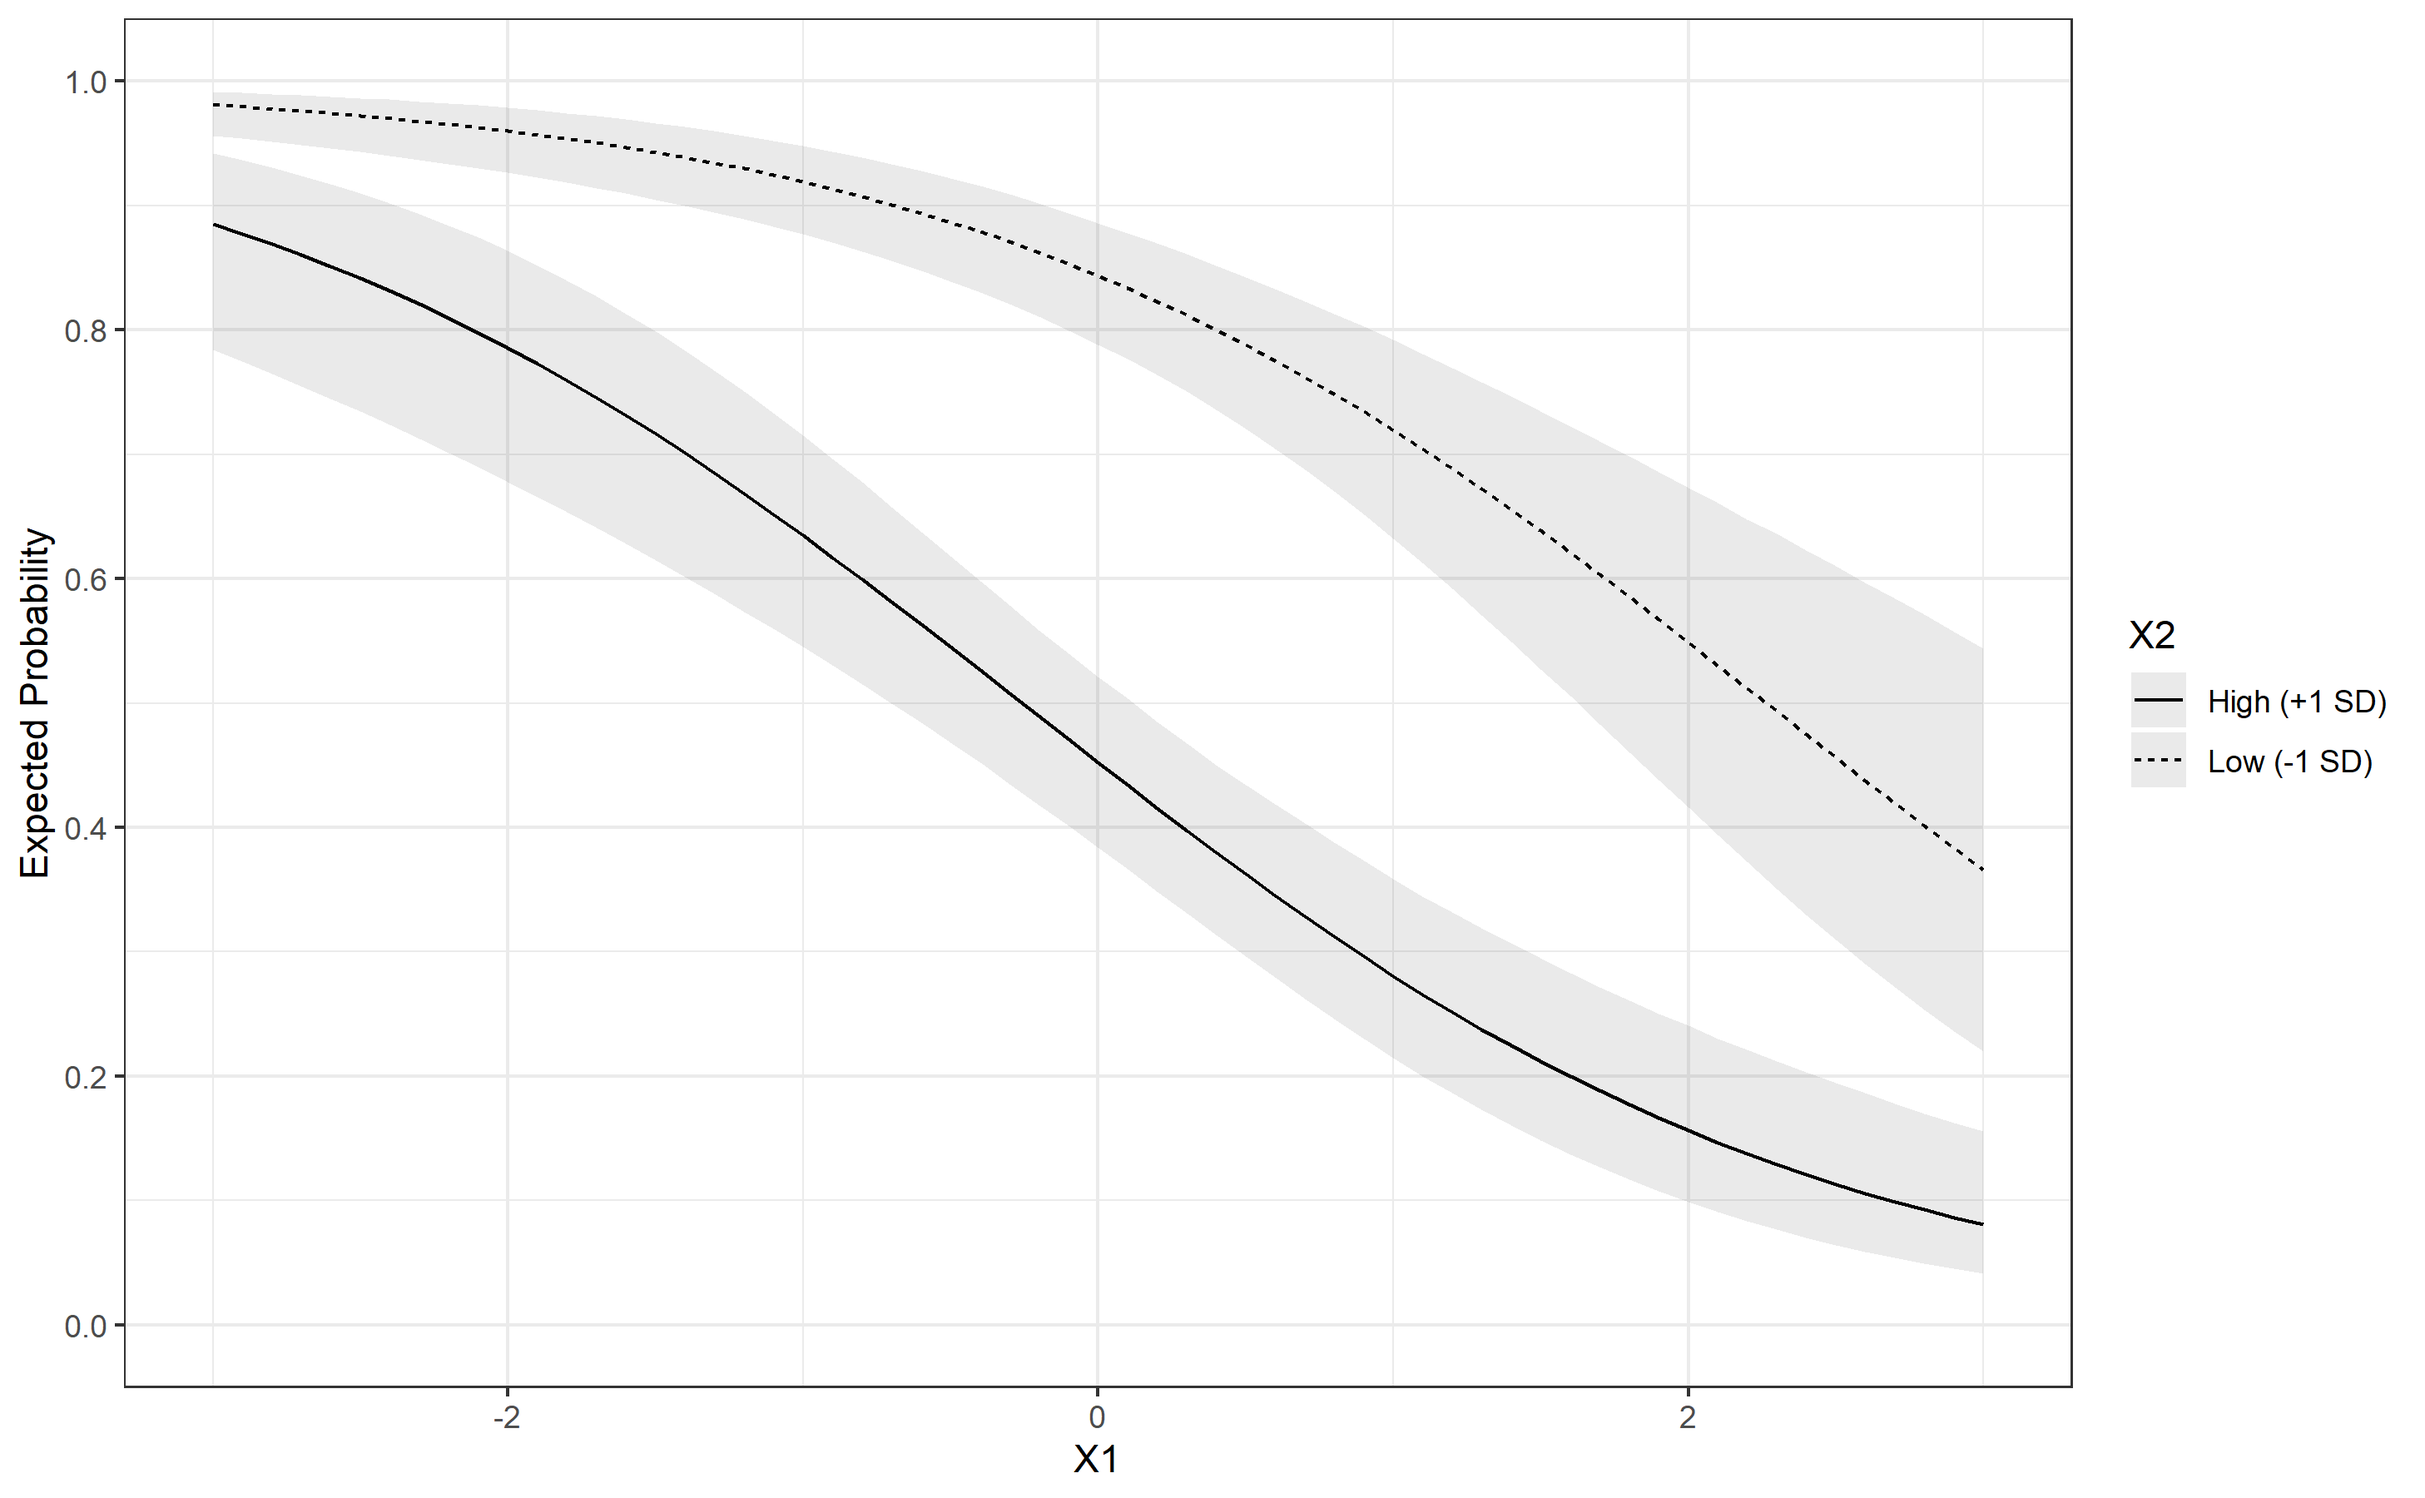
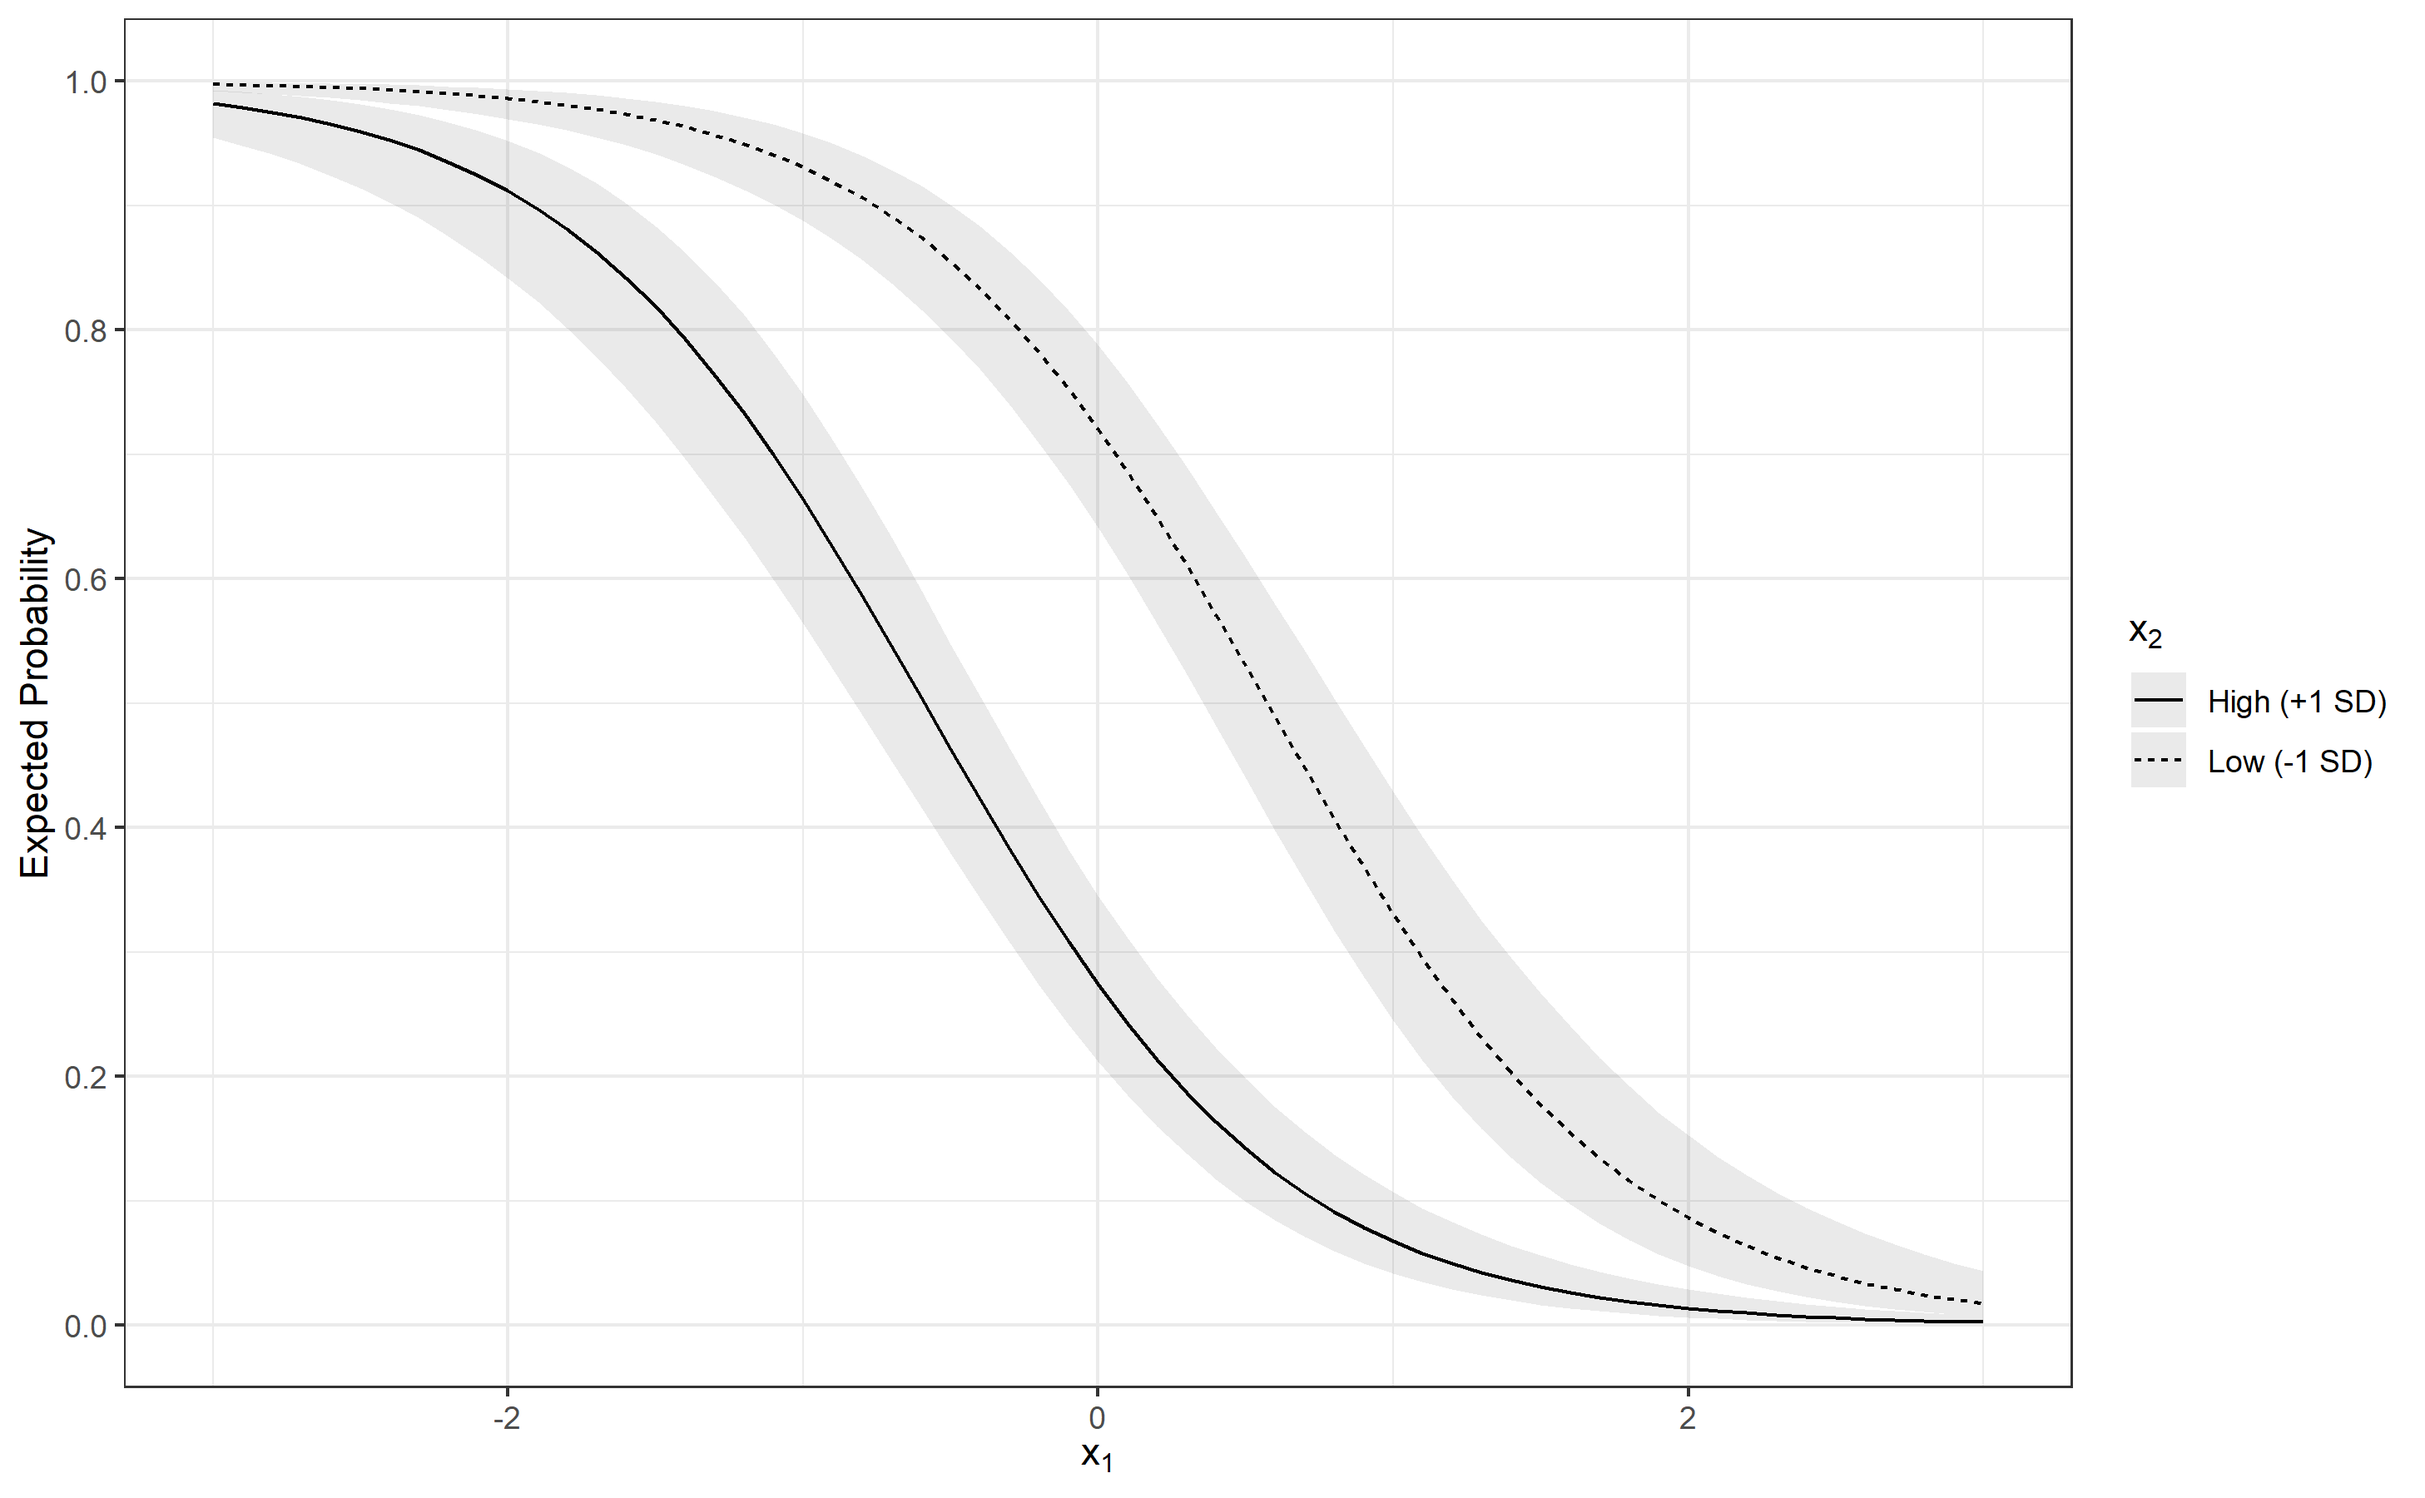
Update all files based on revision

diff --git a/README.md b/README.md
@@ -1,11 +1,11 @@
-# glm_main_effects
-
-This repository houses data, analysis code, and figures to accompany a forthcoming manuscript on interpreting main effects in GLM models of binary and count outcomes. 
-
-sample_code_ex1.R contains code for simulating data used in example 1, as well as code for generating graphics and data for tables.   
-sample_code_ex2.R contains code for analyzing data used in example 2, including generating graphics and data for tables.
-
-ex2_clean.txt contains a subset of data from a study of college student drinking, as used in example 2. Permission was obtained from the University of Washington Human Subjects Division to post these de-identified data online.
-
-p_by_x1x2.png is an image file containing Figure 3, generated from sample_code_ex1.R.
-alcons_by_purggen.png is an image file containing Figure 4, generated from sample_code_ex2.R.
+       # glm_main_effects
+       
+       This repository houses data, analysis code, and figures to accompany a forthcoming manuscript on interpreting main effects in GLM models of binary and count outcomes. 
+       
+       sample_code_generic.R contains code for simulating data used in the in-text example, as well as code for generating graphics and data for tables.   
+       sample_code_emp_ex.R contains code for analyzing data used in the empirical example, including generating graphics and data for tables.
+       
+       ex_clean.txt contains a subset of data from a study of college student drinking, as used in example 2. Permission was obtained from the University of Washington Human Subjects Division to post these de-identified data online.
+       
+       p_by_x1x2.png is an image file containing Figure 2, generated from sample_code_generic.R.
+       alcons_by_gender.png is an image file containing Figure 3, generated from sample_code_emp_ex.R.
